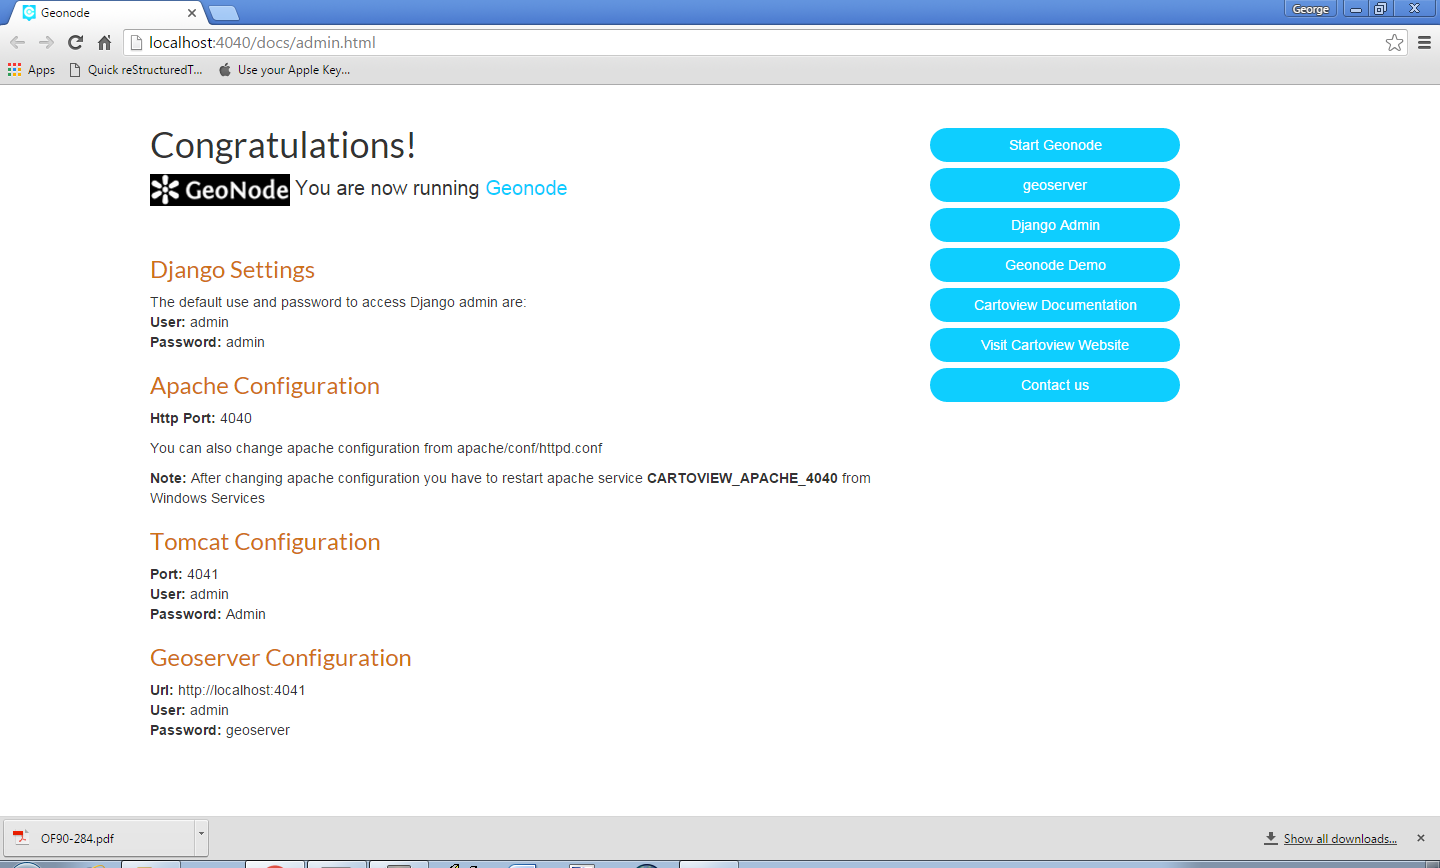
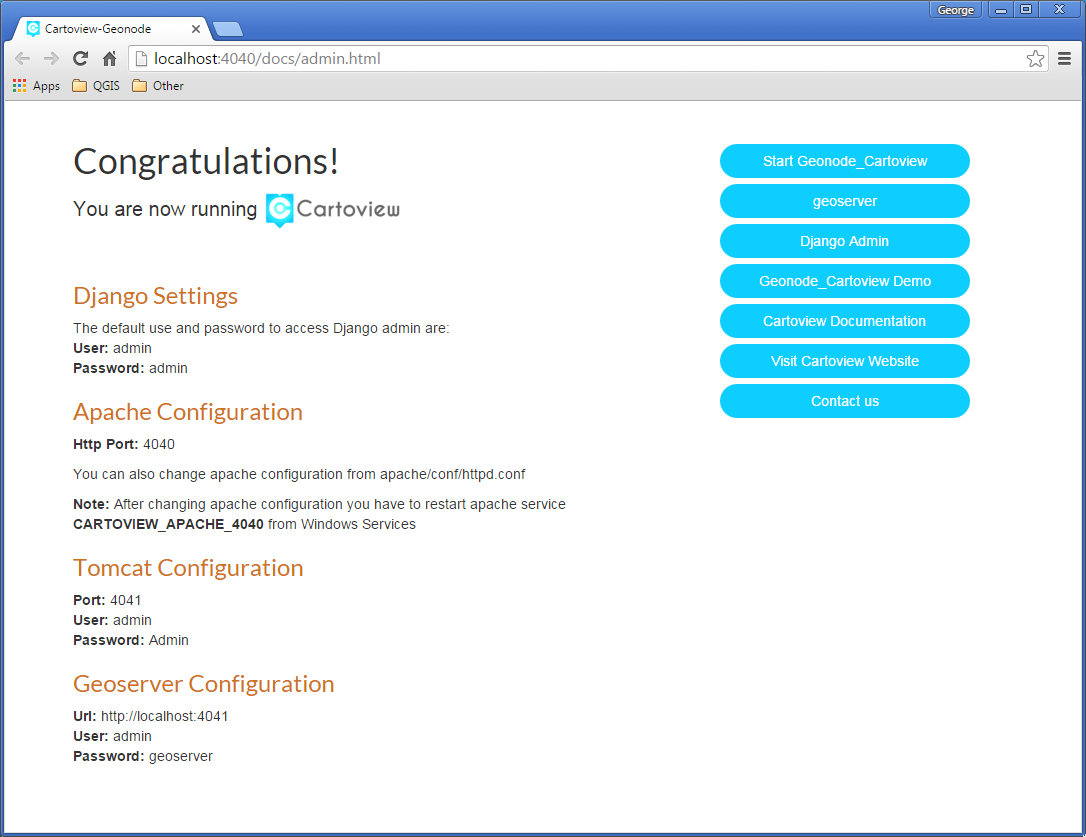
Updated installation documentation for release 0.8.4

Changed region(s): [[0.0, 0.0, 1.0, 1.0]]

diff --git a/docs/installation/index.rst b/docs/installation/index.rst
@@ -4,12 +4,12 @@
 Installation Guide
 ==================
 
-The following is a guide to get Cartoview and Geonode up and running in most common operating systems (Windows, Linux/Ubuntu).
+The following is a guide to get Geonode and Cartoview up and running in most common operating systems (Windows, Linux/Ubuntu).
 
 Recommended Minimum System Requirements
 =======================================
 
-For the deployment of Cartoview and Geonode on a single server, please find the bare minimum system requirements in Geonode's `Documentation. <http://docs.Geonode.org/en/master/tutorials/install_and_admin/quick_install.html>`_
+For the deployment of Geonode and Cartoview on a single server, please find the bare minimum system requirements in Geonode's `Documentation. <http://docs.Geonode.org/en/master/tutorials/install_and_admin/quick_install.html>`_
 
 Windows Installation
 ====================
@@ -146,25 +146,23 @@ Pre Installation
 
     *Java Runtime installation completed* 
 
-.. important:: Now you are ready to proceed with the installation of Cartoview.
+.. important:: Now you are ready to proceed with the installation of Geonode and Cartoview.
 
 ------------
 
 .. _cartoview_installation:
 
-Cartoview and Geonode Installation
+Geonode and Cartoview Installation
 ==================================
 
-.. note:: This installer contains Geonode 2.4 and Cartoview 0.9.14.
+  .. note:: This installer contains Geonode 2.4 and Cartoview 0.9.14.
     Cartoview has been tested with PostGIS 2.1 and Geonode 2.4
 
-#. Download the latest release of **Cartoview** Installer from `Cartologic <http://www.cartologic.com/cartoview/download>`_.
+  Download the latest release of **Geonode_Cartoview** Installer from `Cartologic <http://www.cartologic.com/cartoview/download>`_.
    
   .. figure:: ../img/cartoview_setup1.png
 
-#. Install Cartoview and Geonode
-
-  The installation process is straight forward. Just run the downloaded installer and follow the wizard instructions.
+  The installation process is straight forward. Just run the downloaded installer and follow the wizard instructions. Accepting the defaults is strongly recommented.
 
   .. figure:: ../img/cartoview_setup2.png
 
@@ -176,33 +174,31 @@ Cartoview and Geonode Installation
 
   .. figure:: ../img/cartoview_setup4.png
 
-  .. note:: If you are installing everything on one machine then repeat the PostgreSQL related information provided for the previous dialogs. Additional information might needed, if you have the PostgreSQL data hosted on a separated machine. 
-
-  Specify the PostgreSQL installation data folder.
+  Provide the Geonode database name. This database will host information related to the Geonode website e.g. users, permissions etc.
 
   .. figure:: ../img/cartoview_setup5.png
 
-  Provide PostgreSQL connection information.
+  Provide the GIS database name. This database will host the GIS data.
 
   .. figure:: ../img/cartoview_setup6.png
 
-  Specify installation folder for Geonode, however accepting the default is recommended.
+  Specify installation folder for Geonode_Cartoview, however accepting the default is recommended.
 
   .. figure:: ../img/cartoview_setup7.png
 
-  Select start menu folder, however accepting the default is again recommended.
+  Provide start menu folder name, however accepting the default is again recommended.
 
   .. figure:: ../img/cartoview_setup8.png
 
-  Setup is ready to install Cartoview and Geonode on your machine. Just click the **Install** button and be patient!
+  Setup is ready to install Geonode and Cartoview on your machine. Just click the **Install** button and be patient!
 
   .. figure:: ../img/cartoview_setup9.png
 
-  Setup has finished installing Cartoview and Geonode on your computer. Just click the **Finish** button to launch the home page in your browser.
+  Setup has finished installing Geonode and Cartoview on your computer. Just click the **Finish** button to launch the home page in your browser.
 
   .. figure:: ../img/cartoview_setup10.png
 
-  Congratulations! You have successfully installed Cartoview and Geonode on your machine. This is the Admin Configuration page.
+  Congratulations! You have successfully installed Geonode and Cartoview on your machine. This is the Admin Configuration page.
   Click the **Start Geonode** button to launch the Geonode and Cartoview home page.
   
   .. figure:: ../img/cartoview_setup11.png
@@ -371,8 +367,8 @@ Replace **localhost** with **IP Address** or **Domain Name**
 
 ------------
 
-Linux Installation
-==================
+Linux/Ubuntu Installation
+=========================
 
 Follow `Geonode <http://docs.Geonode.org/en/master/tutorials/install_and_admin/index.html>`_ instructions for installing Geonode on your Ubuntu machine.
 
